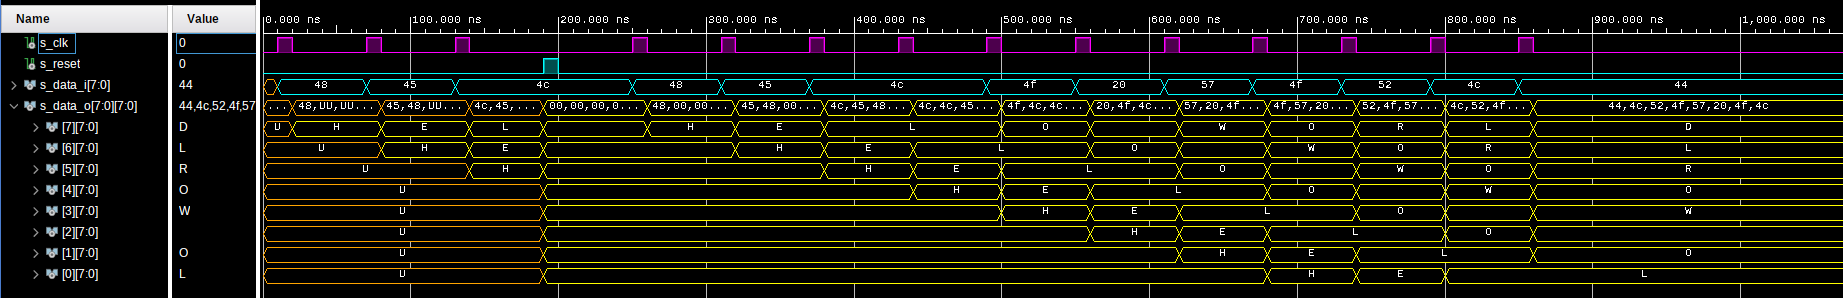
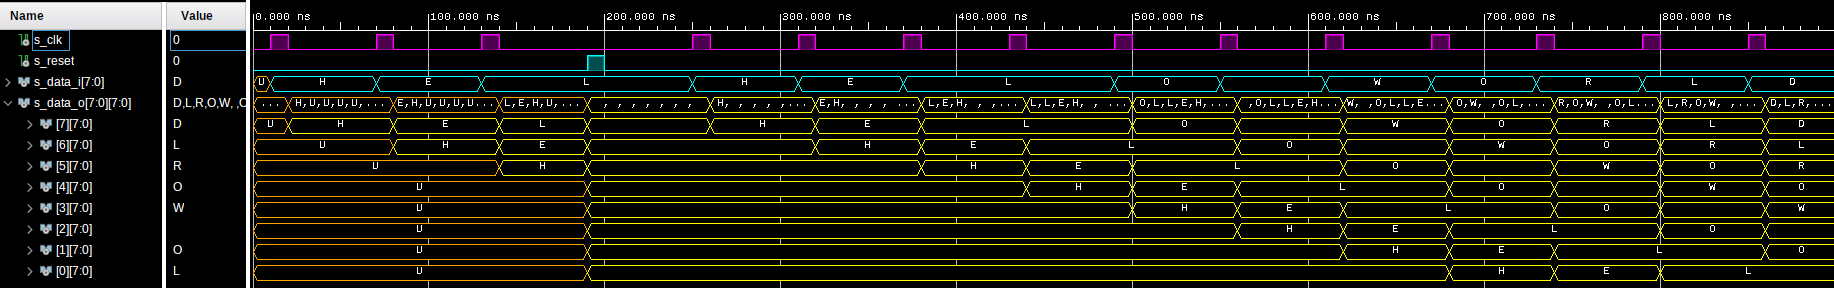
readme: shift_register

Changed region(s): [[0.0, 0.0, 1.0, 1.0]]

diff --git a/README.md b/README.md
@@ -63,7 +63,7 @@ Vstupem entity je hodinový signál `clk` a signál, na kterém se detekují hra
 
 ### morse_to_bin ([kód](morse-code-receiver/morse-code-receiver.srcs/sources_1/new/morse_to_bin.vhd))
 
-Entita `morse_to_bin` tvoří jádro celého projektu. Jejím úkolem je převést vstupní sekvenci teček a čárek, které reprezentují znaky v Morseově abecedě, na [ASCII](https://en.wikipedia.org/wiki/ASCII) kód.
+Entita `morse_to_bin` tvoří jádro celého projektu. Jejím úkolem je převést vstupní sekvenci teček a čárek, která reprezentuje znaky v Morseově abecedě, na [ASCII](https://en.wikipedia.org/wiki/ASCII) kód.
 
 Vystupy entity jsou opět `clk` a `rst` pro hodinový signál a reset, `dot_i` a `dash_i` pro zadání tečky, resp. čárky, a `enter_i`, který slouží pro potvrzení zadávání znaku. Výstupem pak je osmibitový vektor `bin_o` s ASCII kódem zadaného znaku, pětibitový (maximální počet symbolů pro jeden znak v Morseově abecedě je 5) vektor `morse_o` s aktuální zadanou sekvencí, ve které je tečka reprezentována nulou a čárka jedničkou. Posledním výstupem je `shift_o`, který slouží k indikaci přeložení nového znaku pro následující blok - posuvný registr.
 
@@ -95,6 +95,19 @@ Hlavní část entity tvoří synchronní proces `p_morse_to_bin` spouštěný p
 
 #### Průběhy signálů při simulaci (zadání neplatného znaku - není vyslán impulz na výstupu `shift_o`)
 ![morse_to_bin waveforms](images/tb/morse_to_bin_invalid.png)
+
+
+### shift_register ([kód](morse-code-receiver/morse-code-receiver.srcs/sources_1/new/shift_register.vhd))
+
+Posuvný registr slouží k postupnému ukládání přeložených znaků před jejich zobrazením.
+
+Vstup tvoří jeden osmibitový vektor `data_i`, asynchronní reset `arst` a hodinový vstup `clk`. Jediným výstupem je `data_o`, což je pole osmibitových vektorů. Datový typ `t_byte_array` pro tento výstup je definován v [balíčku](morse-code-receiver/morse-code-receiver.srcs/sources_1/new/data_types_pkg.vhd) `data_types_pkg`. Šířka posuvného registru je nastavitelná pomocí hodnoty `g_SR_WIDTH` s výchozí hodnotou 8.
+
+Registr je tvořen jediným procesem `p_shift_registr` reagujícím na signály `clk` a `arst`. Při aktivní úrovni asynchronního resetu je celý registr okamžitě vynulován. V interním signálu `s_length` je uložen aktuální počet hodnot na výstupu registru. Při sestupné hraně hodinového signálu jsou hodnoty na výstupu posunuty o jednu pozici s tím, že hodnota na konci výstupu je odstraněna a na nultou pozici je umístěna hodnota ze vstupu `data_i`.
+
+#### Průběhy signálů při simulaci
+![shift_register waveforms](images/tb/shift_register.png)
+
 
 <a name="top"></a>
 
